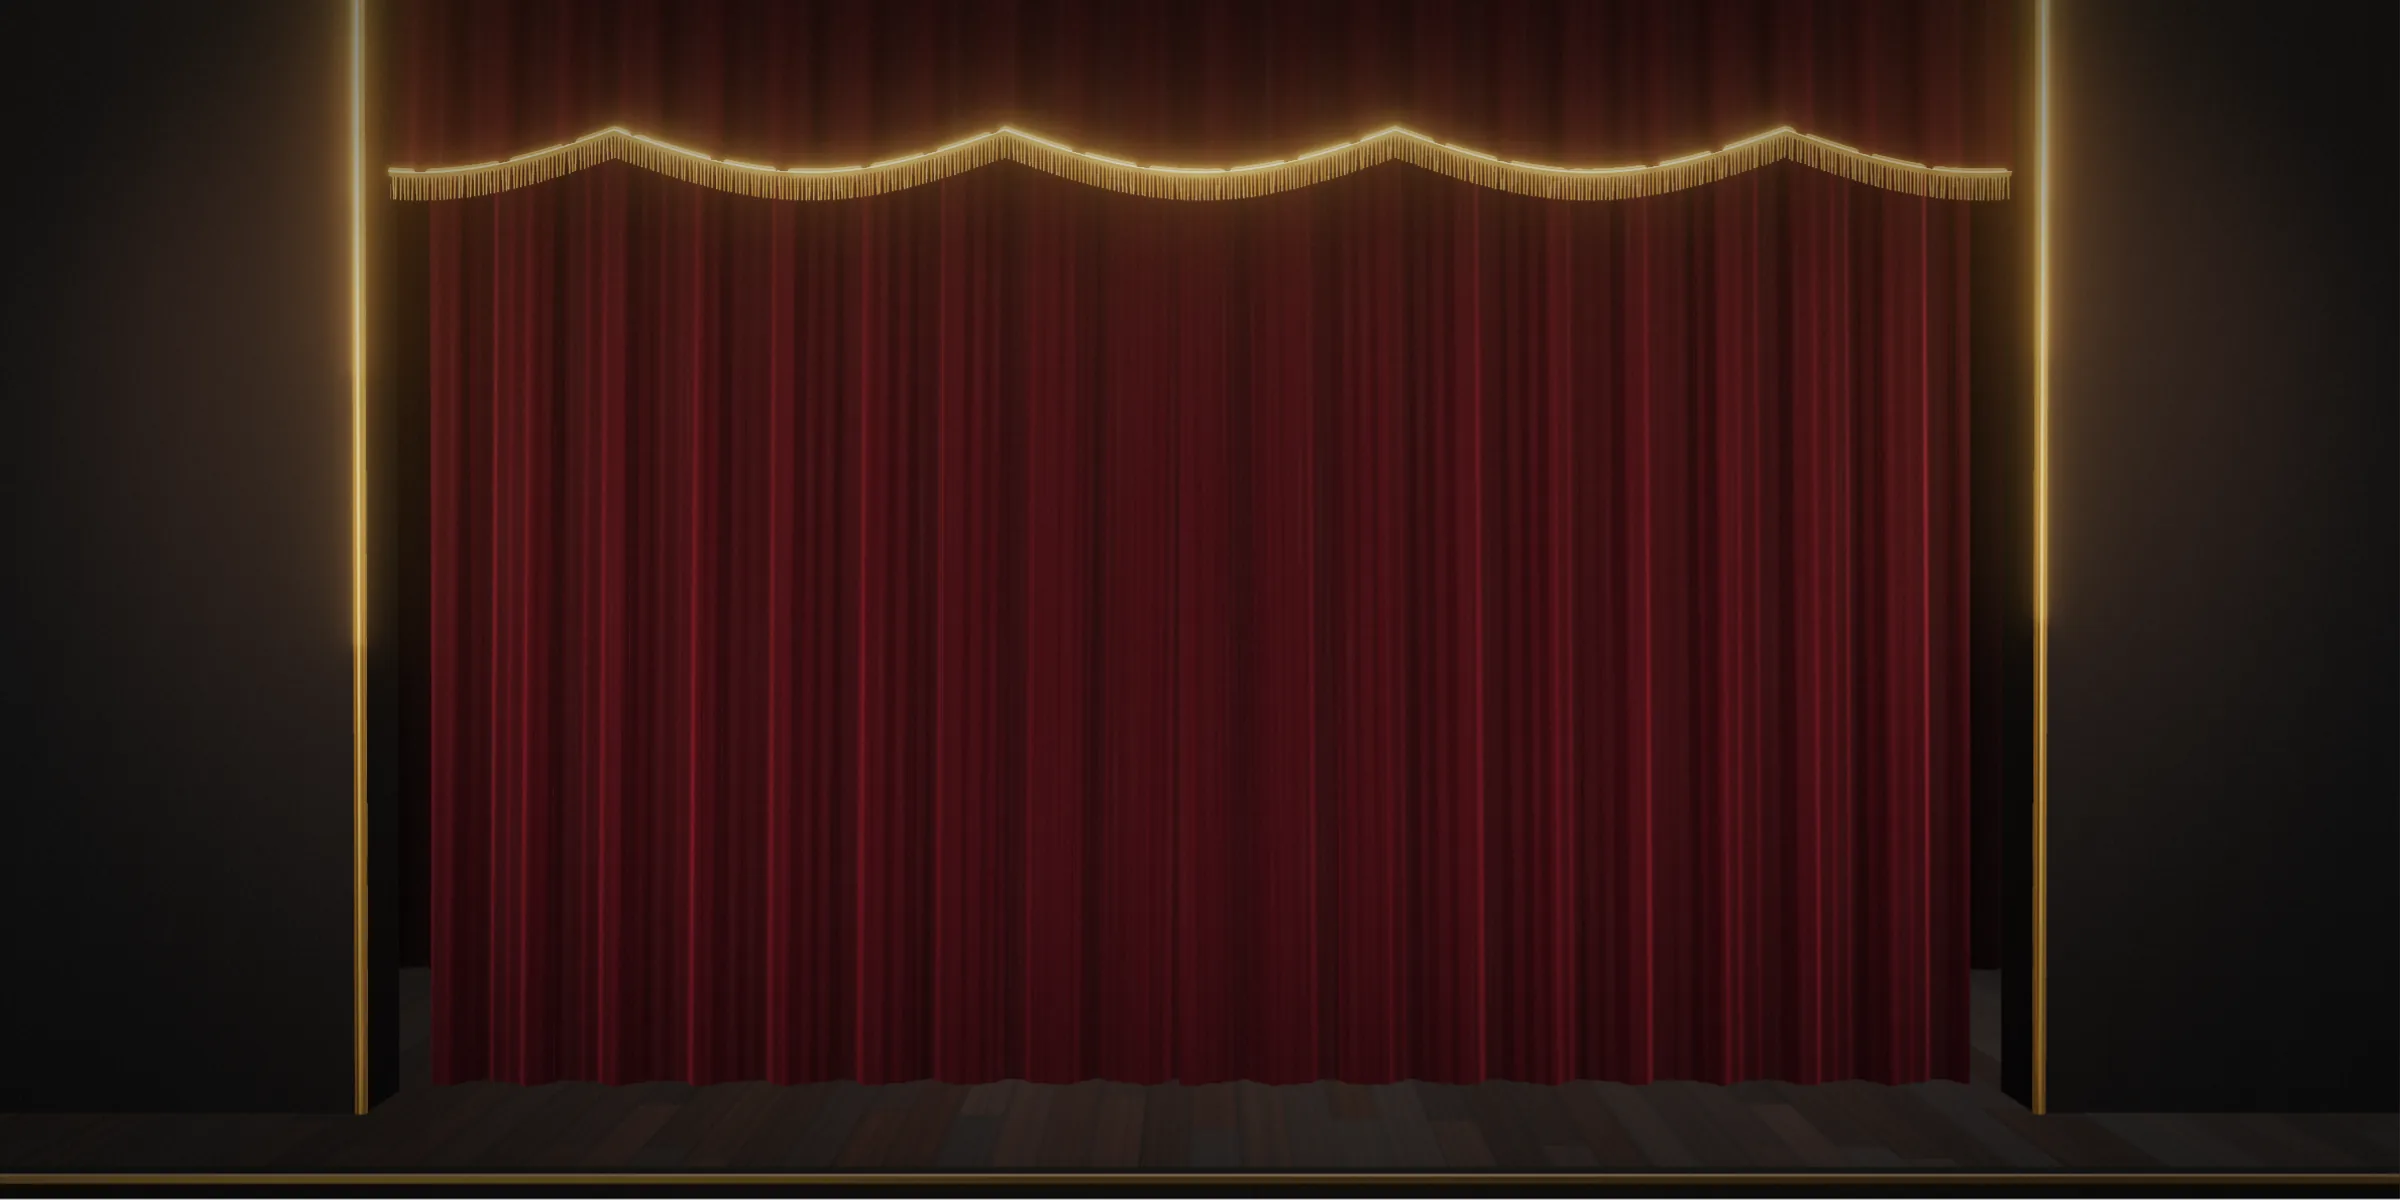
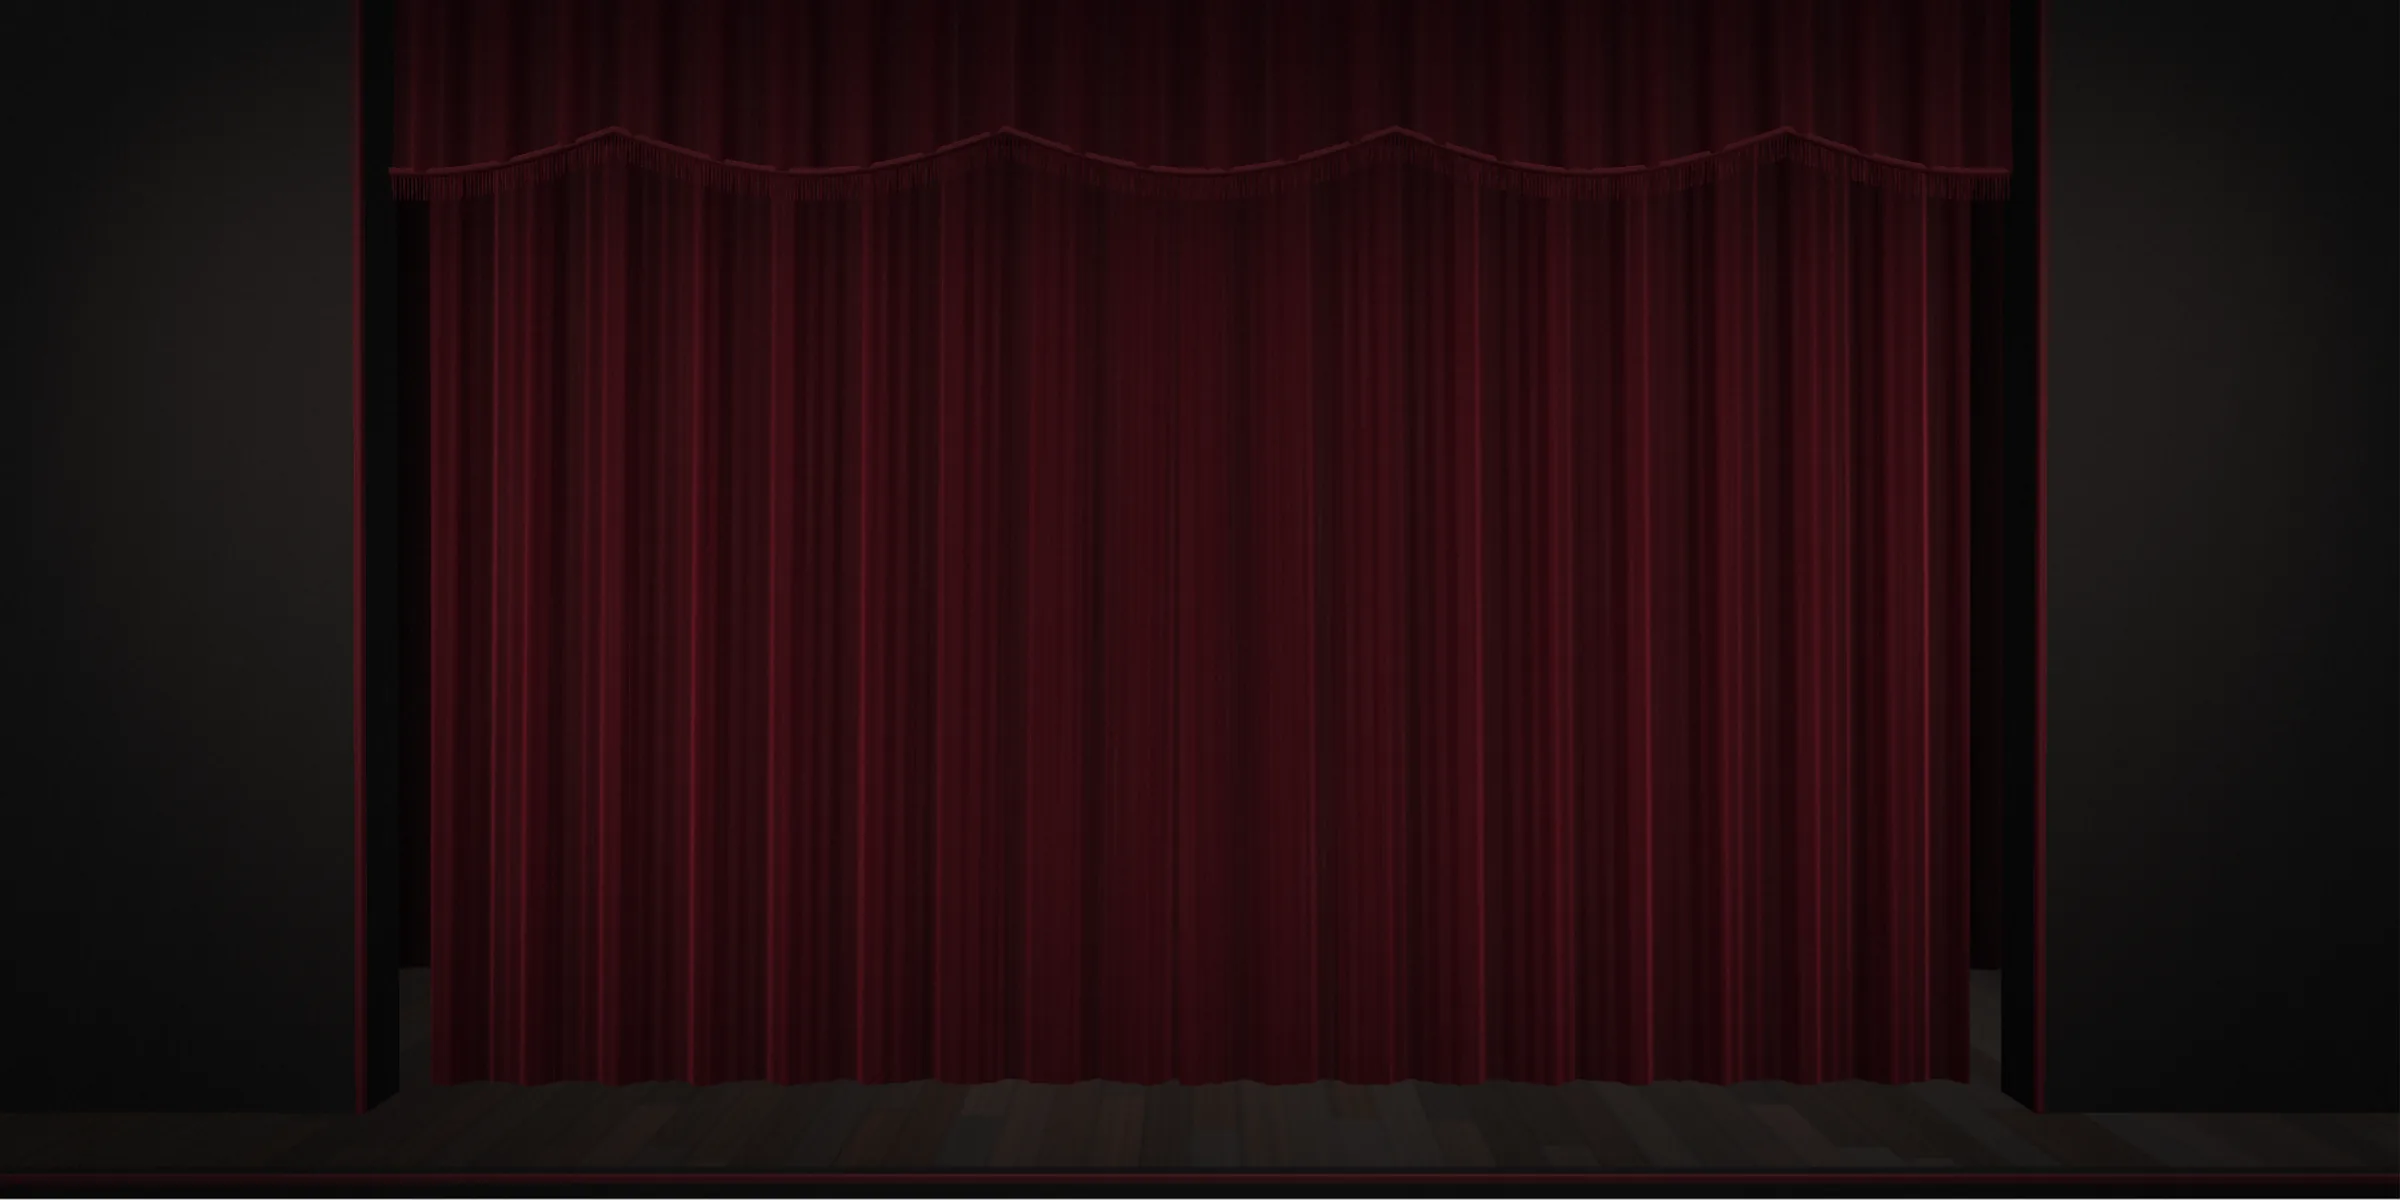
Stage: no gold, calmer light
The trims (rope, fringe, frame edges) are deep bordo silk, the paddle is
bordo lacquer all round and the wordmark is ivory. All lights, the beam,
the dust and the bloom are lower and more neutral. Stills re-rendered.

Changed region(s): [[0.0938, 0.0, 0.9062, 0.925], [0.0, 0.9558, 0.875, 0.9867], [0.9062, 0.9558, 1.0, 0.9867]]

diff --git a/src/features/home/stage/scene.ts b/src/features/home/stage/scene.ts
@@ -1,5 +1,5 @@
 // "Cine suntem?" stage: a real-time WebGL scene. Velvet curtains part, and the LiciTot paddle
-// (bordo enamel set in gold) rises through a stage trap into the spotlight. Hovering the paddle
+// (bordo enamel) rises through a stage trap into the spotlight. Hovering the paddle
 // turns the lights up and the paddle towards the cursor. Browser-only: loaded lazily by
 // components/curtain-stage.tsx when the section comes near the viewport.
 import * as THREE from "three"
@@ -37,8 +37,8 @@ const VELVET = 0x420714
 const VELVET_SHEEN = 0xc94a64
 const BACKDROP = 0x1d070d
 const ENAMEL = 0x4a0b1a
-const GOLD = 0xd9a64e
-const WARM = 0xffd9a8
+const WARM = 0xfff0e0
+const IVORY = 0xe9e1d3
 
 // ── Stage dimensions (world units ≈ meters) ────────────────────────────────────────────────
 const CURTAIN_W = 4.45 // one half, closed
@@ -255,8 +255,8 @@ function layoutCurtain(c: Curtain, open: number, sway: number, time: number) {
   c.mesh.geometry.computeVertexNormals()
 }
 
-/** The valance across the top: a pleated band with scalloped swags and gold fringe. */
-function makeValance(velvet: THREE.MeshPhysicalMaterial, gold: THREE.MeshPhysicalMaterial) {
+/** The valance across the top: a pleated band with scalloped swags, a rope and a fringe. */
+function makeValance(velvet: THREE.MeshPhysicalMaterial, trim: THREE.MeshPhysicalMaterial) {
   const group = new THREE.Group()
   const width = 11
   const top = CURTAIN_H + 0.95
@@ -287,7 +287,7 @@ function makeValance(velvet: THREE.MeshPhysicalMaterial, gold: THREE.MeshPhysica
   const band = new THREE.Mesh(geo, velvet)
   group.add(band)
 
-  // Gold rope along the scalloped hem, and the fringe hanging from it.
+  // A silk rope along the scalloped hem, and the fringe hanging from it.
   const pts: THREE.Vector3[] = []
   for (let i = 0; i <= 440; i++) {
     const x = (i / 440 - 0.5) * width
@@ -295,13 +295,13 @@ function makeValance(velvet: THREE.MeshPhysicalMaterial, gold: THREE.MeshPhysica
   }
   const rope = new THREE.Mesh(
     new THREE.TubeGeometry(new THREE.CatmullRomCurve3(pts), 600, 0.026, 10),
-    gold,
+    trim,
   )
   group.add(rope)
   const strand = new THREE.CylinderGeometry(0.006, 0.004, 0.14, 5)
   strand.translate(0, -0.07, 0)
   const count = Math.round(width / 0.022)
-  const fringe = new THREE.InstancedMesh(strand, gold, count)
+  const fringe = new THREE.InstancedMesh(strand, trim, count)
   const m = new THREE.Matrix4()
   const r = rng(5)
   for (let i = 0; i < count; i++) {
@@ -375,7 +375,7 @@ export function createStage(canvas: HTMLCanvasElement, options: StageOptions = {
   renderer.setPixelRatio(pixelRatio)
   renderer.outputColorSpace = THREE.SRGBColorSpace
   renderer.toneMapping = THREE.ACESFilmicToneMapping
-  renderer.toneMappingExposure = 1.05
+  renderer.toneMappingExposure = 0.92
   renderer.shadowMap.enabled = true
   renderer.shadowMap.type = THREE.PCFShadowMap
   RectAreaLightUniformsLib.init()
@@ -411,13 +411,26 @@ export function createStage(canvas: HTMLCanvasElement, options: StageOptions = {
   backdropVelvet.color = new THREE.Color(BACKDROP)
   backdropVelvet.sheenColor = new THREE.Color(0x8a2a3c)
   backdropVelvet.normalScale = new THREE.Vector2(0.12, 0.12)
-  const gold = new THREE.MeshPhysicalMaterial({
-    color: GOLD,
-    metalness: 1,
-    roughness: 0.2,
-    envMap: reflections,
-    envMapIntensity: 0.9,
+  const lacquer = (color: number, roughness: number) =>
+    new THREE.MeshPhysicalMaterial({
+      color,
+      roughness,
+      clearcoat: 0.8,
+      clearcoatRoughness: 0.12,
+      envMap: reflections,
+      envMapIntensity: 0.3,
+    })
+  // No metal anywhere: trims in deep bordo silk, the paddle rim in darker lacquer, the
+  // wordmark in ivory.
+  const trim = new THREE.MeshPhysicalMaterial({
+    color: 0x4a0d19,
+    roughness: 0.6,
+    sheen: 1,
+    sheenColor: new THREE.Color(0xb04257),
+    sheenRoughness: 0.5,
   })
+  const paddleSide = lacquer(0x3a0812, 0.4)
+  const wordMat = lacquer(IVORY, 0.35)
   const enamel = new THREE.MeshPhysicalMaterial({
     color: ENAMEL,
     roughness: 0.32,
@@ -451,7 +464,7 @@ export function createStage(canvas: HTMLCanvasElement, options: StageOptions = {
   )
   apron.position.set(0, -0.35, 3)
   scene.add(apron)
-  const lip = new THREE.Mesh(new THREE.BoxGeometry(16, 0.035, 0.05), gold)
+  const lip = new THREE.Mesh(new THREE.BoxGeometry(16, 0.035, 0.05), trim)
   lip.position.set(0, -0.012, 3.1)
   scene.add(lip)
 
@@ -478,7 +491,7 @@ export function createStage(canvas: HTMLCanvasElement, options: StageOptions = {
     const pillar = new THREE.Mesh(new THREE.BoxGeometry(2.4, 8, 0.6), pillarMat)
     pillar.position.set(side * (CURTAIN_W + 1.32), 3.6, CURTAIN_Z + 0.55)
     scene.add(pillar)
-    const edge = new THREE.Mesh(new THREE.CylinderGeometry(0.035, 0.035, 8, 12), gold)
+    const edge = new THREE.Mesh(new THREE.CylinderGeometry(0.03, 0.03, 8, 12), trim)
     edge.position.set(side * (CURTAIN_W + 0.14), 3.6, CURTAIN_Z + 0.86)
     scene.add(edge)
   }
@@ -490,9 +503,9 @@ export function createStage(canvas: HTMLCanvasElement, options: StageOptions = {
     c.mesh.position.z = CURTAIN_Z
     scene.add(c.mesh)
   }
-  scene.add(makeValance(velvet, gold))
+  scene.add(makeValance(velvet, trim))
 
-  // The paddle: enamel faces, gold sides (ExtrudeGeometry group 0 = caps, 1 = sides).
+  // The paddle: enamel faces, trim-colored sides (ExtrudeGeometry group 0 = caps, 1 = sides).
   const paddleGeo = new THREE.ExtrudeGeometry(svgShapes(PADDLE_OUTLINE, 32, 34), {
     depth: 3.2,
     bevelEnabled: true,
@@ -502,7 +515,7 @@ export function createStage(canvas: HTMLCanvasElement, options: StageOptions = {
     curveSegments: 48,
   })
   paddleGeo.translate(0, 0, -1.6)
-  const paddle = new THREE.Mesh(paddleGeo, [enamel, gold])
+  const paddle = new THREE.Mesh(paddleGeo, [enamel, paddleSide])
   paddle.castShadow = true
   paddle.receiveShadow = true
   const paddleScale = 0.05
@@ -513,12 +526,12 @@ export function createStage(canvas: HTMLCanvasElement, options: StageOptions = {
   paddleRig.position.set(0, PADDLE_START_Y, PADDLE_Z)
   scene.add(paddleRig)
 
-  // The wordmark in gold letters standing at the front of the stage.
+  // The wordmark in ivory letters standing at the front of the stage.
   const wordGeo = new THREE.ExtrudeGeometry(
     [...svgShapes(WORDMARK_LICI_PATH, 134.5, 46), ...svgShapes(WORDMARK_TOT_PATH, 134.5, 46)],
     { depth: 2.4, bevelEnabled: true, bevelThickness: 0.35, bevelSize: 0.22, bevelSegments: 4 },
   )
-  const word = new THREE.Mesh(wordGeo, gold)
+  const word = new THREE.Mesh(wordGeo, wordMat)
   word.scale.setScalar(0.014)
   word.position.set(0, 0.002, 0.3)
   word.castShadow = true
@@ -542,7 +555,7 @@ export function createStage(canvas: HTMLCanvasElement, options: StageOptions = {
   scene.add(beam.mesh)
 
   const rims = [-1, 1].map((side) => {
-    const rim = new THREE.SpotLight(0xffc8b0, 0, 16, 0.32, 0.7, 1.4)
+    const rim = new THREE.SpotLight(0xfff0e6, 0, 16, 0.32, 0.7, 1.4)
     rim.position.set(side * 3.4, 6.4, -2.8)
     rim.target.position.set(0, PADDLE_Y, PADDLE_Z)
     scene.add(rim, rim.target)
@@ -551,7 +564,7 @@ export function createStage(canvas: HTMLCanvasElement, options: StageOptions = {
 
   // Washes that rake across the curtains from the wings, so the folds read.
   const washes = [-1, 1].map((side) => {
-    const wash = new THREE.SpotLight(0xffb48a, 0, 20, 0.55, 0.9, 1.3)
+    const wash = new THREE.SpotLight(0xffd9c4, 0, 20, 0.55, 0.9, 1.3)
     wash.position.set(side * 7.5, 6.5, 5.5)
     wash.target.position.set(side * 2.2, 2.4, CURTAIN_Z)
     scene.add(wash, wash.target)
@@ -559,13 +572,13 @@ export function createStage(canvas: HTMLCanvasElement, options: StageOptions = {
   })
 
   // Front of house: a soft, narrow light from the audience on the wordmark and the paddle.
-  const front = new THREE.SpotLight(0xffe4c4, 0, 24, 0.13, 0.9, 1)
+  const front = new THREE.SpotLight(0xfff2e6, 0, 24, 0.13, 0.9, 1)
   front.position.set(-3.5, 4.8, 11)
   front.target.position.set(0, 1.3, 0)
   scene.add(front, front.target)
 
   // Footlights: a soft strip at the edge of the stage, pointing up at the curtains.
-  const foot = new THREE.RectAreaLight(0xffb070, 0, 9.5, 0.12)
+  const foot = new THREE.RectAreaLight(0xffd2a8, 0, 9.5, 0.12)
   foot.position.set(0, 0.06, 2.75)
   foot.lookAt(0, 3.2, CURTAIN_Z)
   scene.add(foot)
@@ -590,7 +603,7 @@ export function createStage(canvas: HTMLCanvasElement, options: StageOptions = {
   dustGeo.setAttribute("position", new THREE.BufferAttribute(dustPos, 3))
   const dustMat = new THREE.PointsMaterial({
     map: dustSprite(),
-    color: 0xffe2b8,
+    color: 0xfff2e4,
     size: 0.03,
     transparent: true,
     opacity: 0,
@@ -601,7 +614,7 @@ export function createStage(canvas: HTMLCanvasElement, options: StageOptions = {
   scene.add(dust)
   const dustBase = dustPos.slice()
 
-  // Post: bloom only catches the brightest highlights (gold glints, the beam core).
+  // Post: a faint bloom on the brightest highlights only.
   const size = new THREE.Vector2()
   const target = new THREE.WebGLRenderTarget(1, 1, {
     type: THREE.HalfFloatType,
@@ -609,7 +622,7 @@ export function createStage(canvas: HTMLCanvasElement, options: StageOptions = {
   })
   const composer = new EffectComposer(renderer, target)
   composer.addPass(new RenderPass(scene, camera))
-  const bloom = new UnrealBloomPass(new THREE.Vector2(1, 1), 0.32, 0.55, 0.82)
+  const bloom = new UnrealBloomPass(new THREE.Vector2(1, 1), 0.12, 0.5, 0.9)
   composer.addPass(bloom)
   composer.addPass(new OutputPass())
   // A lens look: soft vignette and fine film grain, after tone mapping.
@@ -705,15 +718,15 @@ export function createStage(canvas: HTMLCanvasElement, options: StageOptions = {
       REST_PITCH + idle * (hover * -pointerSmooth.y * 0.22 + Math.sin(time * 0.7) * 0.025)
     paddleRig.position.y += idle * Math.sin(time * 0.9) * 0.035 * rise
 
-    key.intensity = lights * (85 + hover * 25)
-    front.intensity = lights * 16
-    beam.uniforms.uIntensity.value = lights * (0.1 + hover * 0.045)
-    dustMat.opacity = lights * (0.45 + hover * 0.35)
-    for (const rim of rims) rim.intensity = lights * (45 + hover * 65)
-    for (const wash of washes) wash.intensity = 30 + lights * 12
-    foot.intensity = 3 + lights * 2
-    gold.envMapIntensity = 0.9 + hover * 0.6
-    bloom.strength = 0.3 + hover * 0.16
+    key.intensity = lights * (55 + hover * 30)
+    front.intensity = lights * 9
+    beam.uniforms.uIntensity.value = lights * (0.045 + hover * 0.03)
+    dustMat.opacity = lights * (0.22 + hover * 0.2)
+    for (const rim of rims) rim.intensity = lights * (28 + hover * 45)
+    for (const wash of washes) wash.intensity = 20 + lights * 8
+    foot.intensity = 1.8 + lights * 1.2
+    for (const m of [paddleSide, wordMat]) m.envMapIntensity = 0.3 + hover * 0.4
+    bloom.strength = 0.12 + hover * 0.1
 
     // The camera leans gently with the pointer.
     camera.position.x = pointerSmooth.x * 0.35 * idle

diff --git a/CLAUDE.md b/CLAUDE.md
@@ -169,7 +169,8 @@ scripts/               gen-icons.ts (no seed/demo data: the DB holds only real u
   `getCategoryTree()` + "Cum funcționează"/"Comisioane"). The body sits on `paper-grain`; dark
   bands (home hero, "Cine suntem?") use the `dark` class on the section, so tokens flip locally.
 - **"Cine suntem?" stage** (home): a real-time three.js scene in `features/home/stage/scene.ts`
-  (velvet curtains part, the paddle rises; hover/tap lights it). `components/curtain-stage.tsx`
+  (bordo velvet curtains part, the bordo lacquer paddle rises; hover/tap lights it; no gold or
+  metal, calm light). `components/curtain-stage.tsx`
   imports it only near the viewport, renders only while visible, and shows the stills
   `public/brand/stage-{closed,open}.webp` before load, without WebGL and for reduced motion.
   After changing the scene, re-render the stills (2400×1200) from the closed and open states.

diff --git a/BRAND.md b/BRAND.md
@@ -111,9 +111,9 @@ Favicon: `src/app/icon.svg` (lighter rose on dark browser chrome) + `favicon.ico
 
 The page is warm paper with a fine grain (`paper-grain`); cards sit on it as plain white sheets.
 Two dark "rooms" break the page: the home hero (a warm spotlight from above, a bordo glow below)
-and "Cine suntem?", where the logo appears on a stage: bordo velvet curtains with gold fringe
-part, and the paddle (bordo enamel set in gold) rises into the spotlight. Gold appears only in
-that scene, never in the UI.
+and "Cine suntem?", where the logo appears on a stage: bordo velvet curtains with a bordo silk
+fringe part, and the bordo lacquer paddle rises into a soft spotlight, with the wordmark in ivory.
+No gold or metal, and the light stays low: the stage is calm, not flashy.
 
 ## Icons
 
